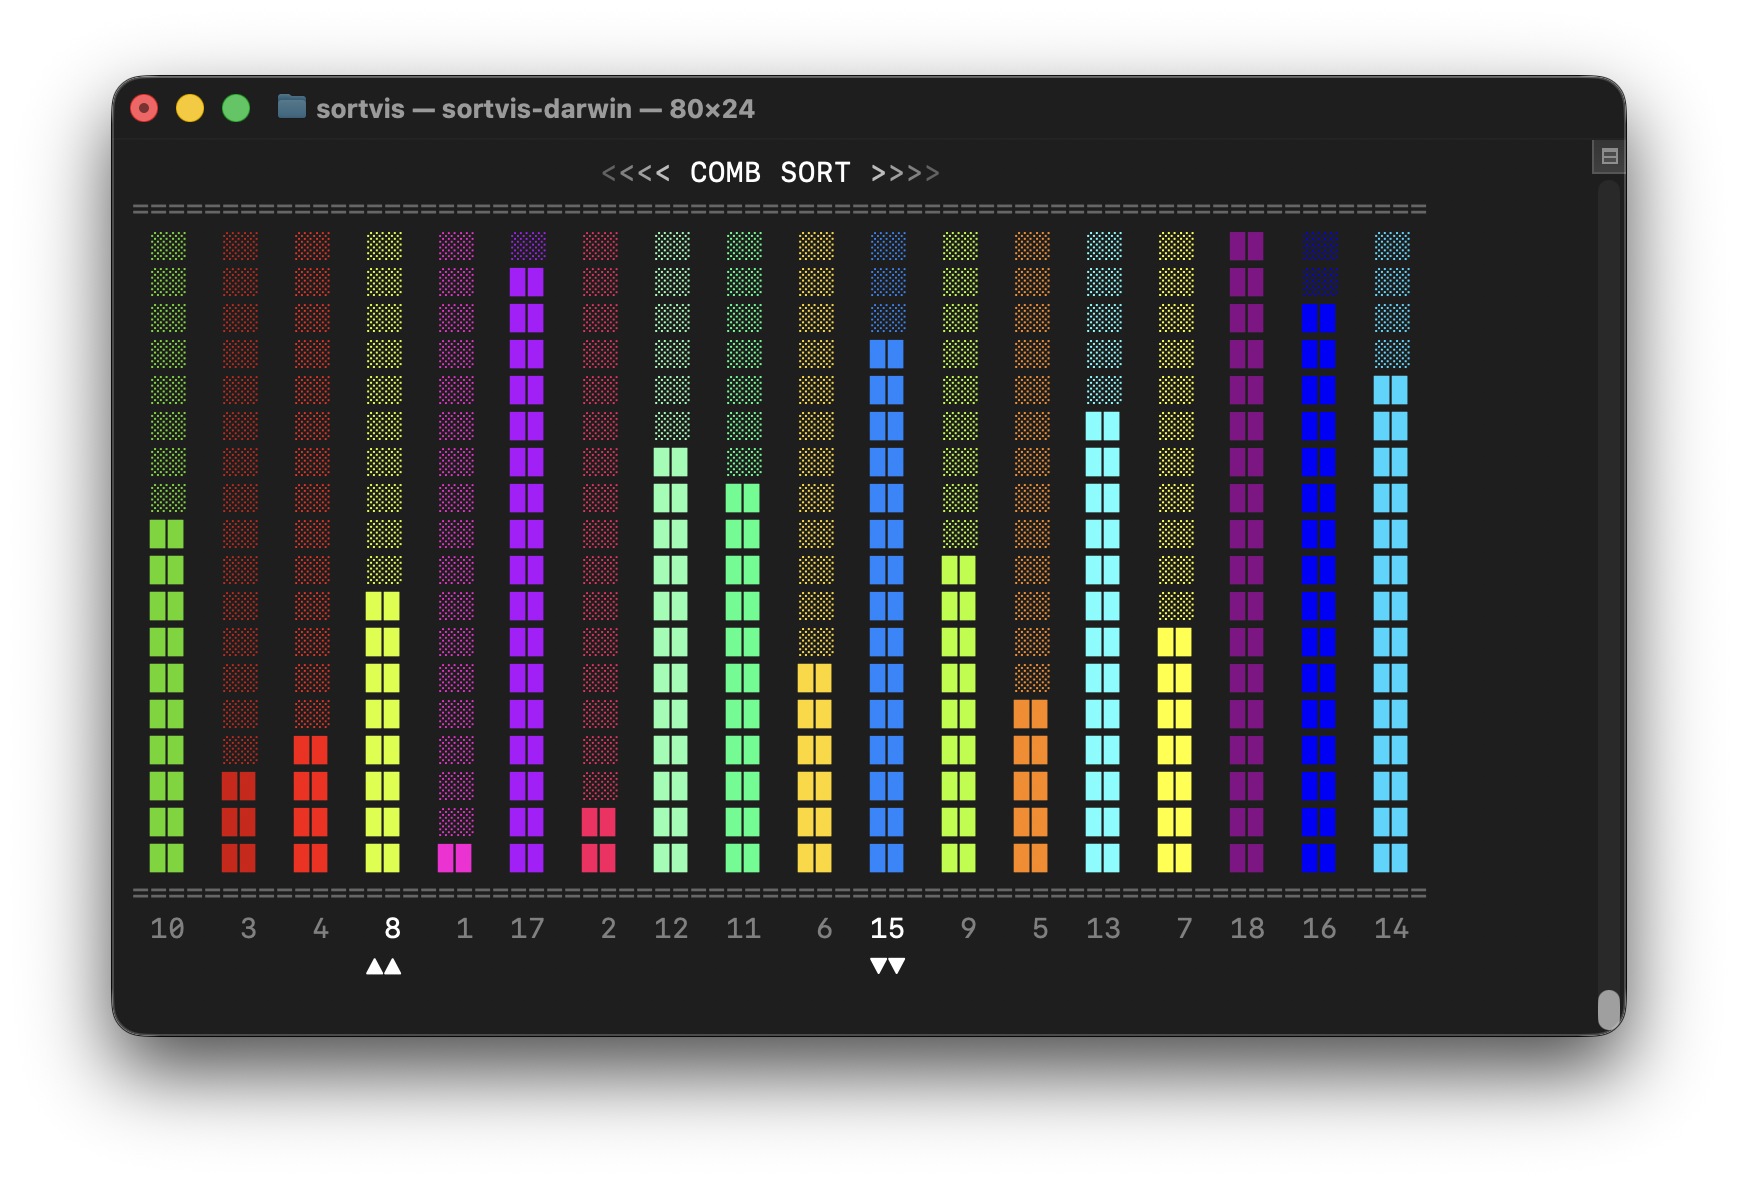
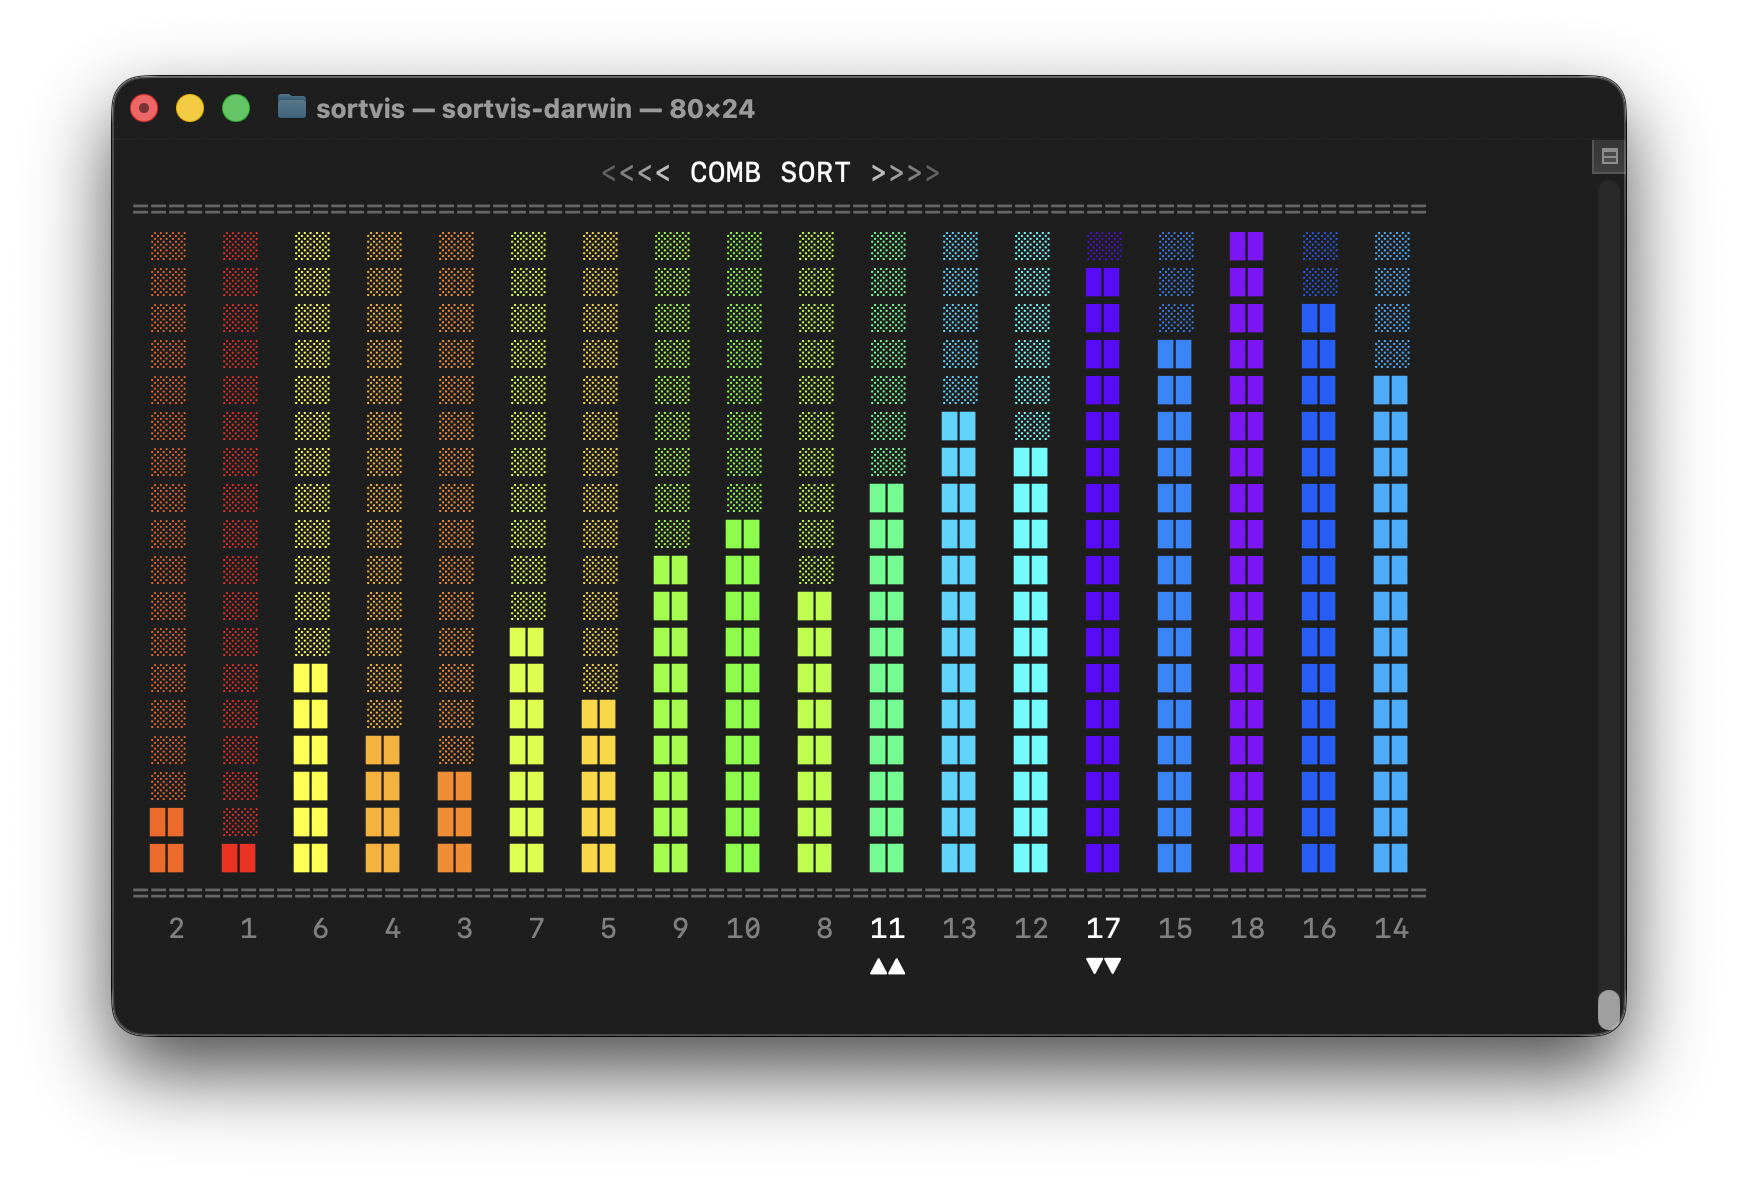
Color gradients added. Screenshots updated.

diff --git a/sortvis.h b/sortvis.h
@@ -2,7 +2,7 @@
  *	SORTVIS.H
  *	---------
  *	Definitions for sort algorithms visualization
- *	Version 0.4.7
+ *	Version 0.5.0
  *	Coded by Trinh D.D. Nguyen
  *
  */
@@ -69,68 +69,112 @@ typedef	char SHADES[SAMPLE_SIZE][16];
 
 const SHADES SHADE_RAINBOW = 				/* rainbow colors for data bars */
 	{
-		VT_COLOR(200),		/* color 0 */
-		VT_COLOR(197),		/* color 1 */
-		VT_COLOR(160),		/* color 2 */
-		VT_COLOR(196),		/* color 3 */
-		VT_COLOR(208),		/* color 4 */
-		VT_COLOR(220),		/* color 5 */
-		VT_COLOR(226),		/* color 6 */
-		VT_COLOR(190),		/* color 7 */
-		VT_COLOR(154),		/* color 8 */
-		VT_COLOR(76) ,		/* color 9 */
-		VT_COLOR(48) ,		/* color 10 */
-		VT_COLOR(121),		/* color 11 */
-		VT_COLOR(87) ,		/* color 12 */
-		VT_COLOR(45) ,		/* color 13 */
-		VT_COLOR(33) ,		/* color 14 */
-		VT_COLOR(21) ,		/* color 15 */
-		VT_COLOR(129),		/* color 16 */
-		VT_COLOR(90) ,		/* color 17 */
+		VT_COLOR(196),		/* color 0:  Bright Red */
+		VT_COLOR(202),		/* color 1:  Red-Orange */
+		VT_COLOR(208),		/* color 2:  Orange */
+		VT_COLOR(214),		/* color 3:  Orange-Yellow */
+		VT_COLOR(220),		/* color 4:  Gold */
+		VT_COLOR(226),		/* color 5:  Yellow */
+		VT_COLOR(190),		/* color 6:  Yellow-Green */
+		VT_COLOR(154),		/* color 7:  Lime */
+		VT_COLOR(118),		/* color 8:  Green */
+		VT_COLOR(82) ,		/* color 9:  Spring Green */
+		VT_COLOR(48) ,		/* color 10: Mint */
+		VT_COLOR(51) ,		/* color 11: Cyan */
+		VT_COLOR(45) ,		/* color 12: Sky Blue */
+		VT_COLOR(39) ,		/* color 13: Blue */
+		VT_COLOR(33) ,		/* color 14: Deep Blue */
+		VT_COLOR(27) ,		/* color 15: Indigo */
+		VT_COLOR(57) ,		/* color 16: Violet */
+		VT_COLOR(93) ,		/* color 17: Purple */
 	};
 
-const SHADES SHADE_VAMPYRIC =
+const SHADES SHADE_PASTEL =
 	{
-		VT_COLOR(22), 		/* color 0 */
-		VT_COLOR(28),		/* color 1 */
-		VT_COLOR(34),		/* color 2 */
-		VT_COLOR(40),		/* color 3 */
-		VT_COLOR(76),		/* color 4 */
-		VT_COLOR(82),		/* color 5 */
-		VT_COLOR(112),		/* color 6 */
-		VT_COLOR(118),		/* color 7 */
-		VT_COLOR(154),		/* color 8 */
-		VT_COLOR(148),		/* color 9 */
-		VT_COLOR(184),		/* color 10 */
-		VT_COLOR(220),		/* color 11 */
-		VT_COLOR(178),		/* color 12 */
-		VT_COLOR(226),		/* color 13 */
-		VT_COLOR(227),		/* color 14 */
-		VT_COLOR(228),		/* color 15 */
-		VT_COLOR(229),		/* color 16 */
-		VT_COLOR(231),		/* color 17 */
+		VT_COLOR(51),  		/* color 0:  Cyan */
+		VT_COLOR(50),		/* color 1:  Bright Cyan */
+		VT_COLOR(49),		/* color 2:  Light Cyan */
+		VT_COLOR(48),		/* color 3:  Cyan-Green */
+		VT_COLOR(84),		/* color 4:  Aqua */
+		VT_COLOR(120),		/* color 5:  Light Aqua */
+		VT_COLOR(156),		/* color 6:  Cyan-Yellow */
+		VT_COLOR(192),		/* color 7:  Light Green-Yellow */
+		VT_COLOR(228),		/* color 8:  Pale Yellow */
+		VT_COLOR(227),		/* color 9:  Yellow */
+		VT_COLOR(226),		/* color 10: Bright Yellow */
+		VT_COLOR(220),		/* color 11: Gold */
+		VT_COLOR(214),		/* color 12: Peach */
+		VT_COLOR(211),		/* color 13: Light Pink */
+		VT_COLOR(218),		/* color 14: Pink */
+		VT_COLOR(212),		/* color 15: Rose Pink */
+		VT_COLOR(206),		/* color 16: Hot Pink */
+		VT_COLOR(200),		/* color 17: Magenta-Pink */
 	};
 
-const SHADES SHADE_GRAYSCALE =
+const SHADES SHADE_PLASMA =
 	{
-		VT_COLOR(235), 		/* color 0 */
-		VT_COLOR(236),		/* color 1 */
-		VT_COLOR(237),		/* color 2 */
-		VT_COLOR(238),		/* color 3 */
-		VT_COLOR(239),		/* color 4 */
-		VT_COLOR(240),		/* color 5 */
-		VT_COLOR(241),		/* color 6 */
-		VT_COLOR(242),		/* color 7 */
-		VT_COLOR(243),		/* color 8 */
-		VT_COLOR(244),		/* color 9 */
-		VT_COLOR(245),		/* color 10 */
-		VT_COLOR(246),		/* color 11 */
-		VT_COLOR(247),		/* color 12 */
-		VT_COLOR(248),		/* color 13 */
-		VT_COLOR(249),		/* color 14 */
-		VT_COLOR(250),		/* color 15 */
-		VT_COLOR(251),		/* color 16 */
-		VT_COLOR(252),		/* color 17 */
+		VT_COLOR(54),  		/* color 0:  Deep Purple */
+		VT_COLOR(55),		/* color 1:  Purple */
+		VT_COLOR(93),		/* color 2:  Violet */
+		VT_COLOR(92),		/* color 3:  Light Purple */
+		VT_COLOR(129),		/* color 4:  Magenta-Purple */
+		VT_COLOR(128),		/* color 5:  Magenta */
+		VT_COLOR(164),		/* color 6:  Pink-Magenta */
+		VT_COLOR(200),		/* color 7:  Hot Pink */
+		VT_COLOR(206),		/* color 8:  Bright Pink */
+		VT_COLOR(213),		/* color 9:  Rose */
+		VT_COLOR(219),		/* color 10: Light Pink */
+		VT_COLOR(224),		/* color 11: Peach */
+		VT_COLOR(223),		/* color 12: Light Peach */
+		VT_COLOR(216),		/* color 13: Salmon */
+		VT_COLOR(209),		/* color 14: Light Orange */
+		VT_COLOR(215),		/* color 15: Orange */
+		VT_COLOR(221),		/* color 16: Gold-Orange */
+		VT_COLOR(227),		/* color 17: Light Yellow */
+	};
+
+const SHADES SHADE_INFERNO =
+	{
+		VT_COLOR(16),  		/* color 0:  Black */
+		VT_COLOR(52),		/* color 1:  Dark Purple */
+		VT_COLOR(53),		/* color 2:  Purple */
+		VT_COLOR(54),		/* color 3:  Deep Purple */
+		VT_COLOR(90),		/* color 4:  Purple-Magenta */
+		VT_COLOR(91),		/* color 5:  Dark Magenta */
+		VT_COLOR(127),		/* color 6:  Magenta */
+		VT_COLOR(126),		/* color 7:  Magenta-Red */
+		VT_COLOR(160),		/* color 8:  Dark Red */
+		VT_COLOR(161),		/* color 9:  Red */
+		VT_COLOR(196),		/* color 10: Bright Red */
+		VT_COLOR(202),		/* color 11: Red-Orange */
+		VT_COLOR(208),		/* color 12: Orange */
+		VT_COLOR(214),		/* color 13: Orange-Gold */
+		VT_COLOR(220),		/* color 14: Gold */
+		VT_COLOR(226),		/* color 15: Yellow */
+		VT_COLOR(227),		/* color 16: Light Yellow */
+		VT_COLOR(228),		/* color 17: Pale Yellow */
+	};
+
+const SHADES SHADE_VIRIDIS =
+	{
+		VT_COLOR(53),  		/* color 0:  Deep Purple */
+		VT_COLOR(54),		/* color 1:  Dark Purple */
+		VT_COLOR(55),		/* color 2:  Purple */
+		VT_COLOR(56),		/* color 3:  Blue-Purple */
+		VT_COLOR(62),		/* color 4:  Dark Blue */
+		VT_COLOR(63),		/* color 5:  Blue */
+		VT_COLOR(26),		/* color 6:  Blue */
+		VT_COLOR(25),		/* color 7:  Deep Blue */
+		VT_COLOR(24),		/* color 8:  Dark Cyan */
+		VT_COLOR(30),		/* color 9:  Teal */
+		VT_COLOR(36),		/* color 10: Dark Green-Cyan */
+		VT_COLOR(35),		/* color 11: Green-Cyan */
+		VT_COLOR(34),		/* color 12: Green */
+		VT_COLOR(40),		/* color 13: Bright Green */
+		VT_COLOR(76),		/* color 14: Lime Green */
+		VT_COLOR(112),		/* color 15: Light Green */
+		VT_COLOR(148),		/* color 16: Yellow-Green */
+		VT_COLOR(184),		/* color 17: Light Yellow */
 	};
 
 #include "helpers.h"
@@ -194,9 +238,10 @@ void app_init() {
 			"%s| %sL%s. Radix Sort        %s|\n"
 			"%s+----------------------+\n"
 			"%s| %sM%s. View data         %s|\n"
-			"%s| %sN%s. Generate new data %s|\n"	
+			"%s| %sN%s. Generate new data %s|\n"
+			"%s| %sP%s. Select gradient   %s|\n"	
 			"%s+----------------------+\n"
-			"%s| %sO%s. Exit              %s|\n"
+			"%s| %sQ%s. Exit              %s|\n"
 			"%so----------------------o\n",
 			VT_COLOR(8), VT_COLOR(153), VT_DEFAULTATTR, VT_COLOR(8),
 			VT_COLOR(8), VT_COLOR(153), VT_DEFAULTATTR, VT_COLOR(8),
@@ -213,17 +258,87 @@ void app_init() {
 			VT_COLOR(8),
 			VT_COLOR(8), VT_COLOR(147), VT_DEFAULTATTR, VT_COLOR(8),
 			VT_COLOR(8), VT_COLOR(147), VT_DEFAULTATTR, VT_COLOR(8),
+			VT_COLOR(8), VT_COLOR(147), VT_DEFAULTATTR, VT_COLOR(8),
 			VT_COLOR(8),
 			VT_COLOR(8), VT_COLOR(228),  VT_DEFAULTATTR, VT_COLOR(8), 
 			VT_COLOR(8));
 	
 	sprintf(menuFooter, 
-			"%sChoice (%sA%s-%sO%s): ",
+			"%sChoice (%sA%s-%sQ%s): ",
 			VT_DEFAULTATTR, VT_ATTR(33), VT_DEFAULTATTR, VT_ATTR(33), VT_DEFAULTATTR);
 
 	strcpy(menuText, menuTitle);
 	strcat(menuText, menuCommands);
 	strcat(menuText, menuFooter);
+}
+
+bool select_gradient() {
+	char choice;
+	int selected = 0;
+	const char* items[] = {
+		"A. Rainbow",
+		"B. Pastel",
+		"C. Plasma",
+		"D. Inferno",
+		"E. Viridis",
+		"",
+		"F. Back"
+	};
+	
+	while (1) {
+		clear();
+		printf(VT_COLOR(220)"SELECT COLOR GRADIENT\n");
+		printf(VT_RESET"--------------------\n");
+		
+		for (int i = 0; i < 7; i++) {
+			if (items[i][0] == '\0') {
+				printf(VT_RESET"--------------------\n");
+			} else {
+				if (i == selected) {
+					printf(VT_ATTR(7)"%-20s"VT_DEFAULTATTR"\n", items[i]);
+				} else {
+					printf(VT_COLOR(150)"%c"VT_RESET"%s\n", items[i][0], items[i] + 1);
+				}
+			}
+		}
+		
+		printf(VT_RESET"\nUse "VT_ATTR(33)"\u2191\u2193"VT_DEFAULTATTR" or "VT_ATTR(33)"A-F"VT_DEFAULTATTR", press "VT_ATTR(33)"ENTER"VT_DEFAULTATTR" to select\n");
+		fflush(stdout);
+		
+		int ch = getch();
+		
+		/* Handle arrow keys */
+		if (ch == 27 || ch == 224) {
+			getch();
+			ch = getch();
+			if (ch == 'A' || ch == 72) {  /* Up arrow */
+				do {
+					selected = (selected - 1 + 7) % 7;
+				} while (selected == 5);  /* Skip separator */
+				continue;
+			} else if (ch == 'B' || ch == 80) {  /* Down arrow */
+				do {
+					selected = (selected + 1) % 7;
+				} while (selected == 5);  /* Skip separator */
+				continue;
+			}
+		} else if (ch == '\n' || ch == '\r') {  /* Enter */
+			const char mapping[] = "ABCDEF";
+			choice = (selected == 6) ? 'F' : mapping[selected];
+		} else {
+			choice = toupper(ch & 0xFF);
+		}
+		
+		switch (choice) {
+		case 'A': set_shades(SHADE_RAINBOW); return true;
+		case 'B': set_shades(SHADE_PASTEL); return true;
+		case 'C': set_shades(SHADE_PLASMA); return true;
+		case 'D': set_shades(SHADE_INFERNO); return true;
+		case 'E': set_shades(SHADE_VIRIDIS); return true;
+		case 'F': return false;
+		default: continue;
+		}
+	}
 }
 
 void app_menu() {
@@ -247,12 +362,13 @@ void app_menu_arrow(int selected) {
 		"",
 		"M. View Samples",
 		"N. Generate New",
+		"P. Select Gradient",
 		"",
-		"O. Exit"
+		"Q. Exit"
 	};
 	
 	printf("%s", menuTitle);
-	for (int i = 0; i < 17; i++) {
+	for (int i = 0; i < 18; i++) {
 		if (items[i][0] == '\0') {
 			printf("%s|                      %s|\n", VT_COLOR(8), VT_COLOR(8));
 		} else {
@@ -264,7 +380,7 @@ void app_menu_arrow(int selected) {
 		}
 	}
 	printf("%so----------------------o\n", VT_COLOR(8));
-	printf("%sUse %s↑↓%s or %sA-O%s, press %sENTER%s to select\n",
+	printf("%sUse %s↑↓%s or %sA-Q%s, press %sENTER%s to select\n",
 		   VT_DEFAULTATTR, VT_ATTR(33), VT_DEFAULTATTR,
 		   VT_ATTR(33), VT_DEFAULTATTR,
 		   VT_ATTR(33), VT_DEFAULTATTR);
@@ -314,18 +430,18 @@ void app_exec() {
 				ch = getch();
 				if (ch == 'A' || ch == 72) {  /* Up arrow */
 					do {
-						selected = (selected - 1 + 17) % 17;
-					} while (selected == 12 || selected == 15);  /* Skip empty lines */
+						selected = (selected - 1 + 18) % 18;
+					} while (selected == 12 || selected == 16);  /* Skip empty lines */
 					continue;
 				} else if (ch == 'B' || ch == 80) {  /* Down arrow */
 					do {
-						selected = (selected + 1) % 17;
-					} while (selected == 12 || selected == 15);  /* Skip empty lines */
+						selected = (selected + 1) % 18;
+					} while (selected == 12 || selected == 16);  /* Skip empty lines */
 					continue;
 				}
 			} else if (ch == '\n' || ch == '\r') {  /* Enter key */
 				/* Map selected index to choice letter */
-				const char mapping[] = "ABCDEFGHIJKL MN O";
+				const char mapping[] = "ABCDEFGHIJKL MNP Q";
 				choice = mapping[selected];
 			} else if (ch >= 'a' && ch <= 'z') {
 				choice = toupper(ch);
@@ -369,10 +485,20 @@ void app_exec() {
 					}		
 				   	break;
 		
+		case 'P' : 	if (select_gradient()) {
+						title("GRADIENT CHANGED"); 
+			       		sample_show(&origin, -1, -1, -1);
+					}
+					else {
+						title("CURRENT SAMPLES"); 
+			       		sample_show(&origin, -1, -1, -1);
+					}
+				   	break;
+		
 		case 'X' :
-		case 'O' : 	done = 1; break;
+		case 'Q' : 	done = 1; break;
 		}
-		if (choice >= 'A' && choice <= 'N') waitkey();
+		if (choice >= 'A' && choice <= 'P') waitkey();
 	}
 }
 

diff --git a/sortvis.c b/sortvis.c
@@ -36,6 +36,7 @@
  *  - Menu navigation via arrow keys added.
  *  - Test suite added as separate program "test.c"
  *  - Other minor fixes and improvements.
+ *  - Gradient color schemes added.
  */
 
 #include "sortvis.h"

diff --git a/README.md b/README.md
@@ -6,7 +6,9 @@ Please see [sortvis.c](sortvis.c)
 
 ## Screenshots
 ![Screenshot on Mac](screens/screen-01-mac.png "Main menu")
-![Screenshot on Mac](screens/screen-02-mac.png "Heap Sort in action")
+![Screenshot on Mac](screens/screen-02-mac.png "Sort algorithm in action")
+![Screenshot on Mac](screens/screen-03-mac.png "Color themes")
+
 ## Notes
 This project was compiled and succesfully tested on
 * macOS Monterey
